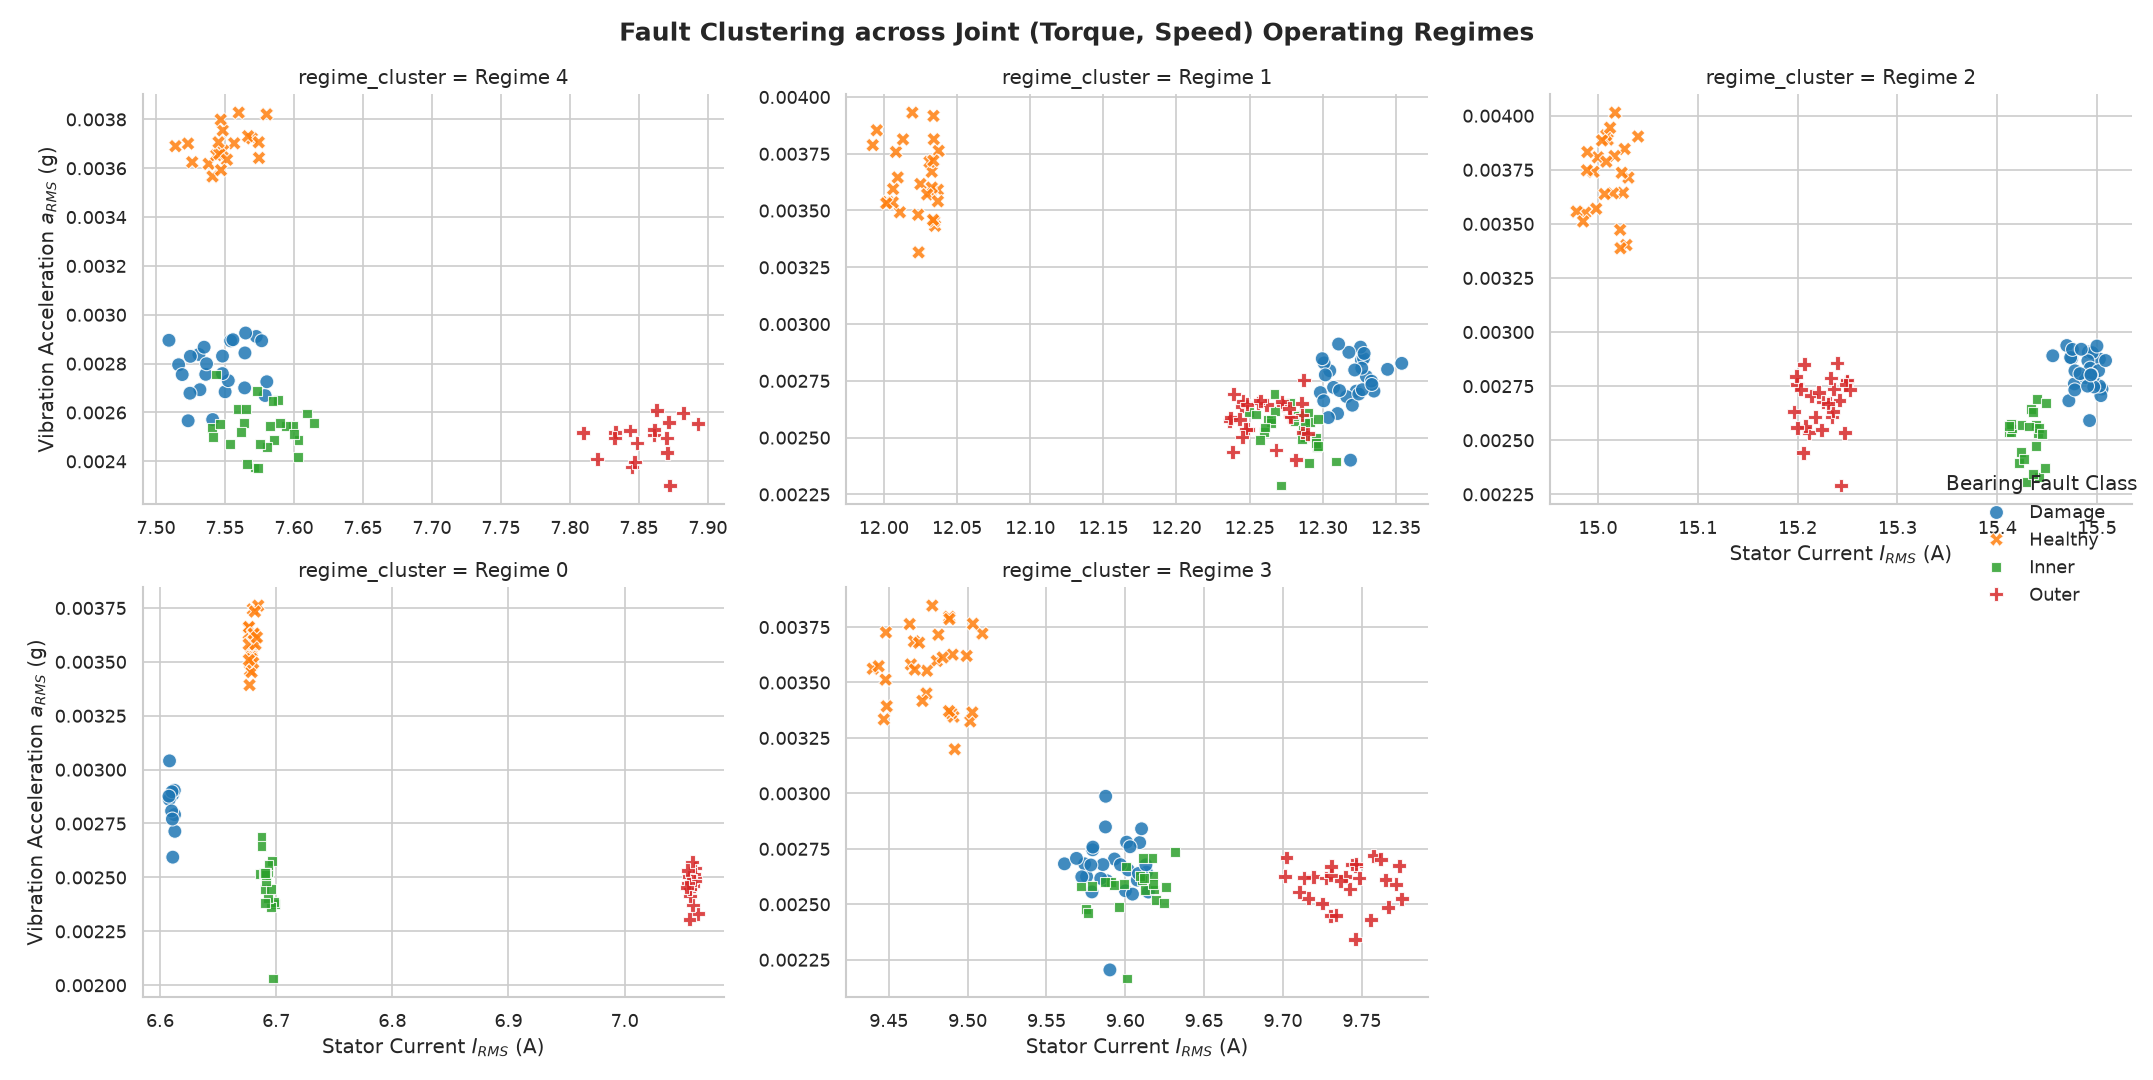
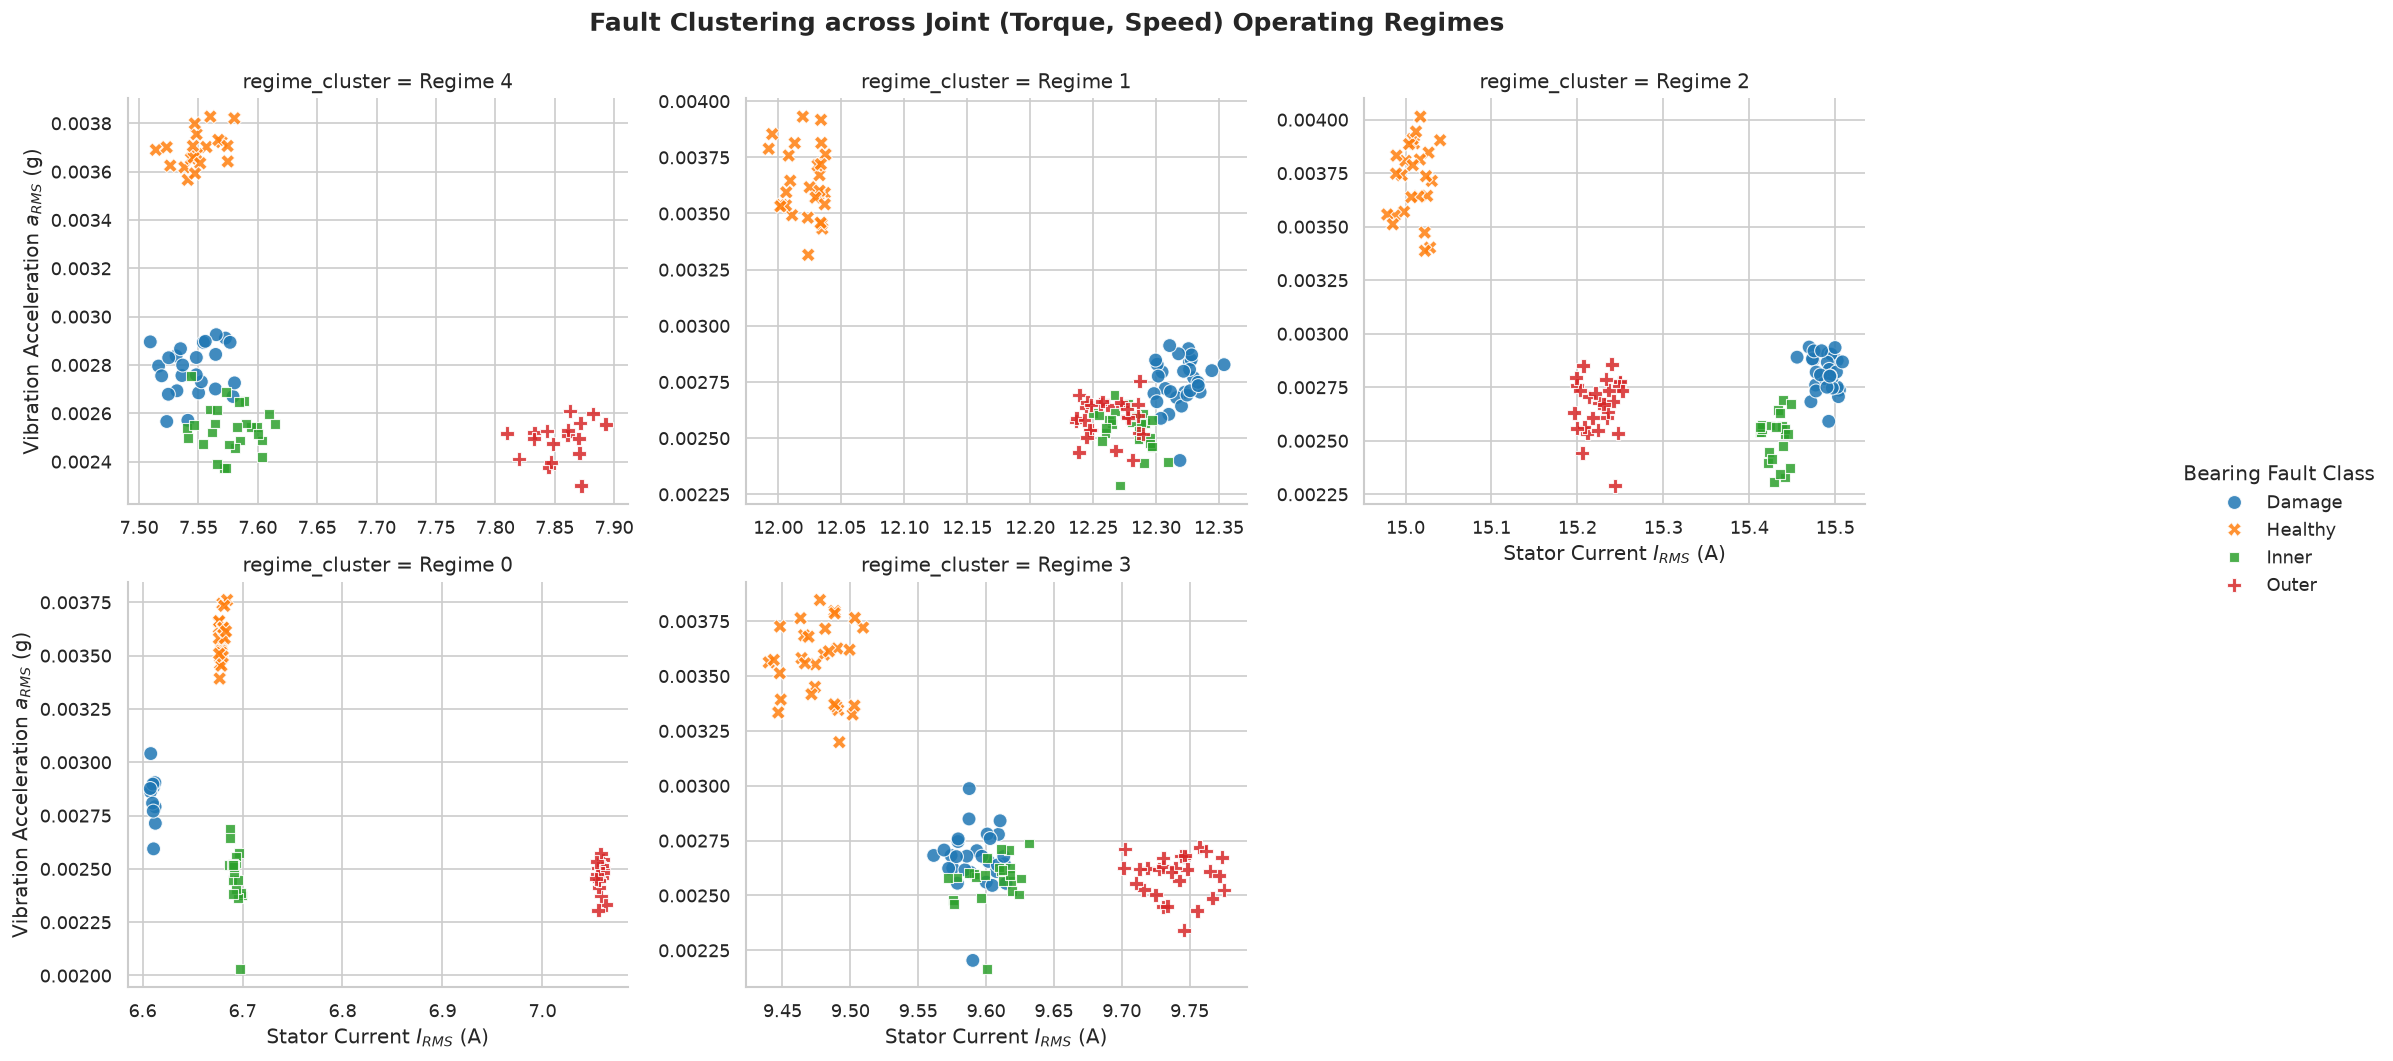
readme updated

diff --git a/bearing_faults/dataset.py b/bearing_faults/dataset.py
@@ -9,8 +9,11 @@ import pywt
 from sklearn.preprocessing import StandardScaler
 from sklearn.cluster import KMeans
 
-
+# ----------------------------------------------------------------------
+# 1. ΒΟΗΘΗΤΙΚΗ ΣΥΝΑΡΤΗΣΗ CWT-MORLET ENERGY
+# ----------------------------------------------------------------------
 def get_cwt_energy(signal, fs=20000, f_min=50, f_max=5000, num_scales=32):
+    """Υπολογίζει τη συνολική ενέργεια CWT-Morlet ενός σήματος παραθύρου"""
     dt = 1.0 / fs
     wavelet = 'cmor1.5-1.0'
     freqs = np.linspace(f_min, f_max, num_scales)
@@ -18,13 +21,29 @@ def get_cwt_energy(signal, fs=20000, f_min=50, f_max=5000, num_scales=32):
     coefs, _ = pywt.cwt(signal, scales, wavelet, sampling_period=dt)
     return np.sum(np.abs(coefs)**2)
 
+# ----------------------------------------------------------------------
+# 2. ΕΞΑΓΩΓΗ ΧΑΡΑΚΤΗΡΙΣΤΙΚΩΝ ΑΝΑ ΑΡΧΕΙΟ
+# ----------------------------------------------------------------------
 def process_bearing_file(file_path, label, load_level, window_size=2000, fs=20000, smooth_window=50):
+    """
+    smooth_window: μέγεθος του rolling mean (σε δείγματα) που εφαρμόζεται
+    ΜΟΝΟ στα speed/torque σήματα πριν τον υπολογισμό std ανά παράθυρο.
+    Καθαρίζει encoder/quantization θόρυβο ώστε το std να αντανακλά
+    πραγματική μεταβολή λειτουργικής κατάστασης, όχι δειγματικό θόρυβο.
+    Δεν εφαρμόζεται σε current/vibration/voltage — αυτά χρειάζονται
+    το raw, υψηλής συχνότητας σήμα τους για το CWT.
+    """
     v_df = pd.read_excel(file_path, sheet_name='Voltage').drop(columns=['Time'])
     i_df = pd.read_excel(file_path, sheet_name='Current').drop(columns=['Time'])
     t_df = pd.read_excel(file_path, sheet_name='Torque').drop(columns=['Time'])
     s_df = pd.read_excel(file_path, sheet_name='Speed').drop(columns=['Time'])
     vib_df = pd.read_excel(file_path, sheet_name='Vibration').drop(columns=['Time'])
 
+    # Επιβεβαιωμένα column names (Healthy_50.xlsx):
+    # Voltage -> Voltage1/2/3, Current -> Current1/2/3, Torque -> Torque,
+    # Speed -> Speed, Vibration -> Vibration. Το 'Time' αφαιρέθηκε ήδη πάνω.
+
+    # --- Smoothing πριν το windowing (μόνο speed & torque) ---
     s_smooth = s_df['Speed'].rolling(window=smooth_window, center=True, min_periods=1).mean()
     t_smooth = t_df['Torque'].rolling(window=smooth_window, center=True, min_periods=1).mean()
 
@@ -38,22 +57,32 @@ def process_bearing_file(file_path, label, load_level, window_size=2000, fs=2000
 
         t_win = t_smooth.iloc[idx_start:idx_end].values
         s_win = s_smooth.iloc[idx_start:idx_end].values
+        t_win_raw = t_df['Torque'].iloc[idx_start:idx_end].values
+        s_win_raw = s_df['Speed'].iloc[idx_start:idx_end].values
         v_win = v_df.iloc[idx_start:idx_end].values          # Voltage1/2/3
         i_win = i_df.iloc[idx_start:idx_end].values          # Current1/2/3
         vib_win = vib_df['Vibration'].iloc[idx_start:idx_end].values
 
+        # Μηχανικές παράμετροι (πάνω σε smoothed σήμα)
         mean_torque = np.mean(t_win)
         std_torque = np.std(t_win)
         mean_speed = np.mean(s_win)
         std_speed = np.std(s_win)
 
+        # Ίδιο std πάνω στο raw (χωρίς smoothing) σήμα, μόνο για σύγκριση/διάγραμμα
+        std_torque_raw = np.std(t_win_raw)
+        std_speed_raw = np.std(s_win_raw)
+
+        # Ηλεκτρικές παράμετροι (3-Phase RMS) — raw σήμα
         i_rms = np.sqrt(np.mean(i_win**2))
         v_rms = np.sqrt(np.mean(v_win**2))
 
+        # Στατιστικά κραδασμών — raw σήμα
         a_rms = np.sqrt(np.mean(vib_win**2))
         a_peak = np.max(np.abs(vib_win))
         crest_factor = a_peak / (a_rms + 1e-8)
 
+        # CWT-Morlet Energies — raw σήμα
         cwt_energy_vib = get_cwt_energy(vib_win, fs=fs, f_min=50, f_max=8000)
         cwt_energy_cur = get_cwt_energy(i_win[:, 0], fs=fs, f_min=10, f_max=1000)
 
@@ -62,8 +91,10 @@ def process_bearing_file(file_path, label, load_level, window_size=2000, fs=2000
             'nominal_load': load_level,
             'torque_mean': mean_torque,
             'torque_std': std_torque,
+            'torque_std_raw': std_torque_raw,
             'speed_mean': mean_speed,
             'speed_std': std_speed,
+            'speed_std_raw': std_speed_raw,
             'i_rms': i_rms,
             'v_rms': v_rms,
             'a_rms': a_rms,
@@ -75,6 +106,9 @@ def process_bearing_file(file_path, label, load_level, window_size=2000, fs=2000
 
     return pd.DataFrame(records)
 
+# ----------------------------------------------------------------------
+# 3. ΑΥΤΟΜΑΤΗ ΣΑΡΩΣΗ ΦΑΚΕΛΩΝ & ΣΥΓΚΕΝΤΡΩΣΗ DATASET
+# ----------------------------------------------------------------------
 root_dir = '../../data'  # Ο φάκελος όπου βρίσκονται οι υποφάκελοι Damage, Healthy, Inner, Outer
 logger.info(f"Scanning root directory: {root_dir}")
 categories = ['Damage', 'Healthy', 'Inner', 'Outer']
@@ -92,7 +126,9 @@ for cat in categories:
 
 full_dataset = pd.concat(all_dfs, ignore_index=True)
 
-
+# ----------------------------------------------------------------------
+# 4. ΕΛΕΓΧΟΣ ΔΙΑΚΥΜΑΝΣΕΩΝ (ΜΕΤΑ ΤΟ SMOOTHING) & ΙΣΤΟΓΡΑΜΜΑ
+# ----------------------------------------------------------------------
 logger.info(f"Συνολικά παράθυρα που εξήχθησαν: {len(full_dataset)}")
 
 logger.info(
@@ -106,20 +142,37 @@ logger.info(
     f" {full_dataset['torque_std'].mean():.2f}"
 )
 
-fig, axes = plt.subplots(1, 2, figsize=(12, 4))
-full_dataset['speed_std'].hist(bins=50, ax=axes[0])
-axes[0].set_title('Speed std distribution (after smoothing)')
-full_dataset['torque_std'].hist(bins=50, ax=axes[1])
-axes[1].set_title('Torque std distribution (after smoothing)')
+# Δες την πραγματική κατανομή ΠΡΙΝ διαλέξεις threshold - μην μαντεύεις τιμή
+# Before/after smoothing σε ίδια κλίμακα ανά μεταβλητή, για άμεση σύγκριση
+fig, axes = plt.subplots(2, 2, figsize=(12, 8))
+full_dataset['speed_std_raw'].hist(bins=50, ax=axes[0, 0])
+axes[0, 0].set_title('Speed std (before smoothing)')
+full_dataset['speed_std'].hist(bins=50, ax=axes[0, 1])
+axes[0, 1].set_title('Speed std (after smoothing)')
+full_dataset['torque_std_raw'].hist(bins=50, ax=axes[1, 0])
+axes[1, 0].set_title('Torque std (before smoothing)')
+full_dataset['torque_std'].hist(bins=50, ax=axes[1, 1])
+axes[1, 1].set_title('Torque std (after smoothing)')
 plt.tight_layout()
 plt.savefig('std_distributions.png', dpi=120)
 plt.show()
 
+logger.info(
+    "Δες το std_distributions.png (ή το παράθυρο που άνοιξε) πριν ορίσεις "
+    "τα thresholds steady-state παρακάτω. Πρότεινε π.χ. 90th percentile "
+    "αντί για αυθαίρετη τιμή."
+)
+
+# ----------------------------------------------------------------------
+# 5. ΦΙΛΤΡΑΡΙΣΜΑ STEADY-STATE
+# ----------------------------------------------------------------------
+# Πρόχειρα thresholds ως σημείο εκκίνησης - προσάρμοσέ τα με βάση το
+# ιστόγραμμα από το βήμα 4 (π.χ. percentile-based αντί για fixed values).
 speed_std_threshold = full_dataset['speed_std'].quantile(0.90)
 torque_std_threshold = full_dataset['torque_std'].quantile(0.90)
 
 logger.info(
-    f" 90th percentile thresholds -> speed_std < {speed_std_threshold:.2f}, "
+    f"Use of 90th percentile thresholds -> speed_std < {speed_std_threshold:.2f}, "
     f"torque_std < {torque_std_threshold:.2f}"
 )
 
@@ -134,20 +187,78 @@ logger.info(f"Steady-State δείγματα: {len(df_ss)} / {len(full_dataset)}"
 
 if len(df_ss) == 0:
     logger.warning(
-        "Filtering for Steady-State resulted in an empty dataset. Using the full dataset instead."
+        "The filter was too strict! Using all data for clustering."
     )
     df_ss = full_dataset.copy()
+
+# ----------------------------------------------------------------------
+# 6. 2D K-MEANS CLUSTERING ΣΤΑ (TORQUE, SPEED)
+# ----------------------------------------------------------------------
+from sklearn.metrics import silhouette_score
 
 scaler = StandardScaler()
 scaled_op_points = scaler.fit_transform(df_ss[["torque_mean", "speed_mean"]])
 
-k = 5  # 5 επίπεδα φορτίου (0%, 25%, 50%, 75%, 100%)
+# --- 6a. Επιλογή k: elbow (inertia) + silhouette, δοκιμή k=2..8 ---
+K_range = range(2, 9)
+inertias, sil_scores = [], []
+for k_try in K_range:
+    km_try = KMeans(n_clusters=k_try, random_state=42, n_init=10).fit(scaled_op_points)
+    inertias.append(km_try.inertia_)
+    sil_scores.append(silhouette_score(scaled_op_points, km_try.labels_))
+
+fig, axes = plt.subplots(1, 2, figsize=(11, 4))
+axes[0].plot(list(K_range), inertias, marker='o')
+axes[0].set_xlabel('k (# clusters)')
+axes[0].set_ylabel('Inertia')
+axes[0].set_title('Elbow method')
+axes[1].plot(list(K_range), sil_scores, marker='o', color='darkorange')
+axes[1].set_xlabel('k (# clusters)')
+axes[1].set_ylabel('Silhouette score')
+axes[1].set_title('Silhouette score ανά k')
+plt.tight_layout()
+plt.savefig('kmeans_k_selection.png', dpi=120)
+plt.show()
+
+logger.info(
+    "kmeans_k_selection.png: max silhouette score -> "
+    f"k={list(K_range)[int(np.argmax(sil_scores))]} (elbow: inspect visually"
+    " στο αριστερό plot)."
+)
+
+# --- 6b. Τελικό fit με k=5 (5 ονομαστικά φορτία) ---
+k = 5
 kmeans = KMeans(n_clusters=k, random_state=42, n_init=10)
 df_ss["regime_cluster"] = kmeans.fit_predict(scaled_op_points)
 df_ss["regime_cluster"] = "Regime " + df_ss["regime_cluster"].astype(str)
 
 logger.success("Το 2D K-Means clustering completed successfully!")
 
+# --- 6c. Οπτικοποίηση ΤΟΥ ΙΔΙΟΥ ΤΟΥ CLUSTERING στο (torque, speed) επίπεδο ---
+# Αυτό δείχνει *πώς* κατέληξες στα regimes - όχι το downstream αποτέλεσμα.
+centers_original = scaler.inverse_transform(kmeans.cluster_centers_)
+
+plt.figure(figsize=(7.5, 6.5))
+sns.scatterplot(
+    data=df_ss, x='torque_mean', y='speed_mean',
+    hue='regime_cluster', palette='tab10', s=35, alpha=0.6
+)
+plt.scatter(
+    centers_original[:, 0], centers_original[:, 1],
+    marker='X', s=220, c='black', edgecolors='white', linewidths=1.5,
+    label='Cluster centers', zorder=5
+)
+plt.xlabel('Torque (mean, per window)')
+plt.ylabel('Speed (mean, per window)')
+plt.title(f'K-Means (k={k}) (torque, speed)')
+plt.legend(bbox_to_anchor=(1.02, 0.5), loc='center left')
+plt.tight_layout()
+plt.savefig('kmeans_regime_clusters.png', dpi=120, bbox_inches='tight')
+plt.show()
+
+# ----------------------------------------------------------------------
+# 7. FACETED SCATTER PLOT GRID
+# ----------------------------------------------------------------------
 sns.set_theme(style="whitegrid", palette="tab10")
 
 g = sns.FacetGrid(
@@ -171,13 +282,12 @@ g.map_dataframe(
 )
 
 g.set_axis_labels('Stator Current $I_{RMS}$ (A)', 'Vibration Acceleration $a_{RMS}$ (g)')
-g.add_legend(title='Bearing Fault Class')
-g.figure.subplots_adjust(top=0.9)
+g.add_legend(title='Bearing Fault Class', bbox_to_anchor=(1.02, 0.5), loc='center left')
+g.figure.subplots_adjust(top=0.9, right=0.88)
 g.figure.suptitle(
     'Fault Clustering across Joint (Torque, Speed) Operating Regimes',
     fontsize=15, weight='bold'
 )
 
-plt.tight_layout()
-plt.savefig('fault_clustering_facetgrid.png', dpi=120)
+plt.savefig('fault_clustering_facetgrid.png', dpi=120, bbox_inches='tight')
 plt.show()

diff --git a/README.md b/README.md
@@ -4,7 +4,12 @@
     <img src="https://img.shields.io/badge/CCDS-Project%20template-328F97?logo=cookiecutter" />
 </a>
 
-A short description of the project.
+Predictive maintenance of bearings, using a cross-modal architecture to predict the remaining useful life of bearings based on vibration and current signals,
+under different operating conditions. 
+
+###Initial structure of methodology:
+![image](docs/docs/methodology.drawio.png)
+
 
 ## Project Organization
 
@@ -56,6 +61,66 @@ A short description of the project.
     │
     └── plots.py                <- Code to create visualizations
 ```
+
+## Data preprocessing 
+Available data: 
+20 excel sheets, each containing time series for voltage, vibration, torque, current and velocity. The data is organized in 4 folders, each corresponding to a different type of bearing condition: Damage, Healthy, Inner and Outer. Each folder contains 5 excel sheets.
+```
+├── Damage
+│   ├── Damage_0.xlsx
+│   ├── Damage_100.xlsx
+│   ├── Damage_25.xlsx
+│   ├── Damage_50.xlsx
+│   └── Damage_75.xlsx
+├── Healthy
+│   ├── Healthy_0.xlsx
+│   ├── Healthy_100.xlsx
+│   ├── Healthy_25.xlsx
+│   ├── Healthy_50.xlsx
+│   └── Healthy_75.xlsx
+├── Inner
+│   ├── Inner_0.xlsx
+│   ├── Inner_100.xlsx
+│   ├── Inner_25.xlsx
+│   ├── Inner_50.xlsx
+│   └── Inner_75.xlsx
+├── Outer
+│   ├── Outer_0.xlsx
+│   ├── Outer_100.xlsx
+│   ├── Outer_25.xlsx
+│   ├── Outer_50.xlsx
+│   └── Outer_75.xlsx
+
+```
+
+In order to preprocess the data it is necessary to smooth the speed and torque data to avoid noise and to implement a window of 2000 samples.
+The number of total windows produced are 600 (600*2000=1,200,000 samples).
+
+For each window, the following features are extracted: 
+- Mechanical features: Mean Value, Standard Deviation, torque, speed.
+- Electrical features: RMS, Crest Factor, Peak to Peak Value.
+- Vibration features: RMS, Crest Factor, Peak to Peak Value.
+- CWT energy for current and vibration signals.
+
+The function returns a dataframe for one line per window.
+
+The windows produced by all files are concatenated into a single csv file.
+
+There is a need to seperate the transient events from the steady state events. Smoothing is applied to the torque and speed signals, using a rolling mean.
+The 90th percentile of the standard deviation of torque and speed is used as a threshold to filter the windows. The windows that have a standard deviation of torque and speed below the threshold are considered as steady state events.
+
+![image](reports/figures/std_distributions.png)
+
+
+K-means clustering is implemented to group the windows in 5 operating regimes based on their mean torque and speed. These groups are the final bins for the cross-domain split.
+The decisive factor for the number of clusters is the silhouette score, which is calculated for different numbers of clusters, as well
+as the elbow method. The optimal number of clusters is 5, as shown in the following figure.
+![image](reports/figures/k_means_selection.png)
+The k-means algorithm is fitted to the data and the cluster centers are shown in the following figure:
+![image](reports/figures/kmeans_regime_clusters.png)
+
+the Facet grid shows how the 4 classes of data are visibly distinguishable in each of the operating regime.
+![image](reports/figures/fault_clustering_facetgrid.png)
 
 --------
 
